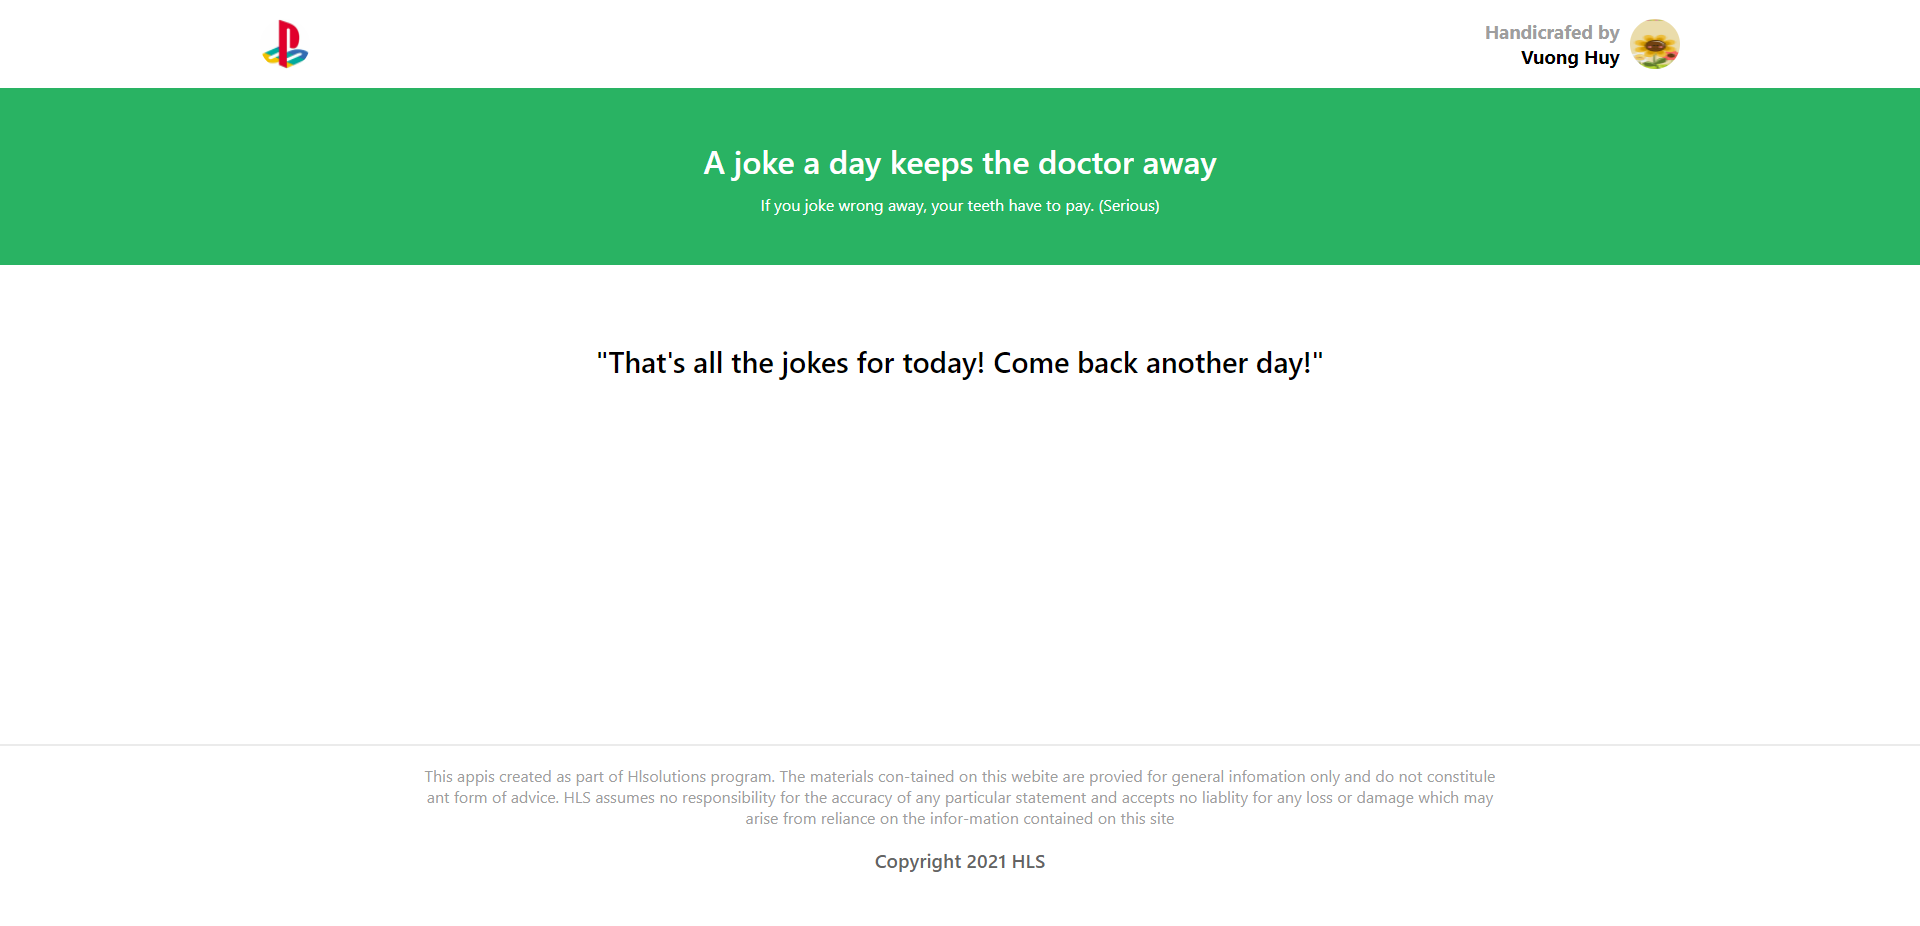
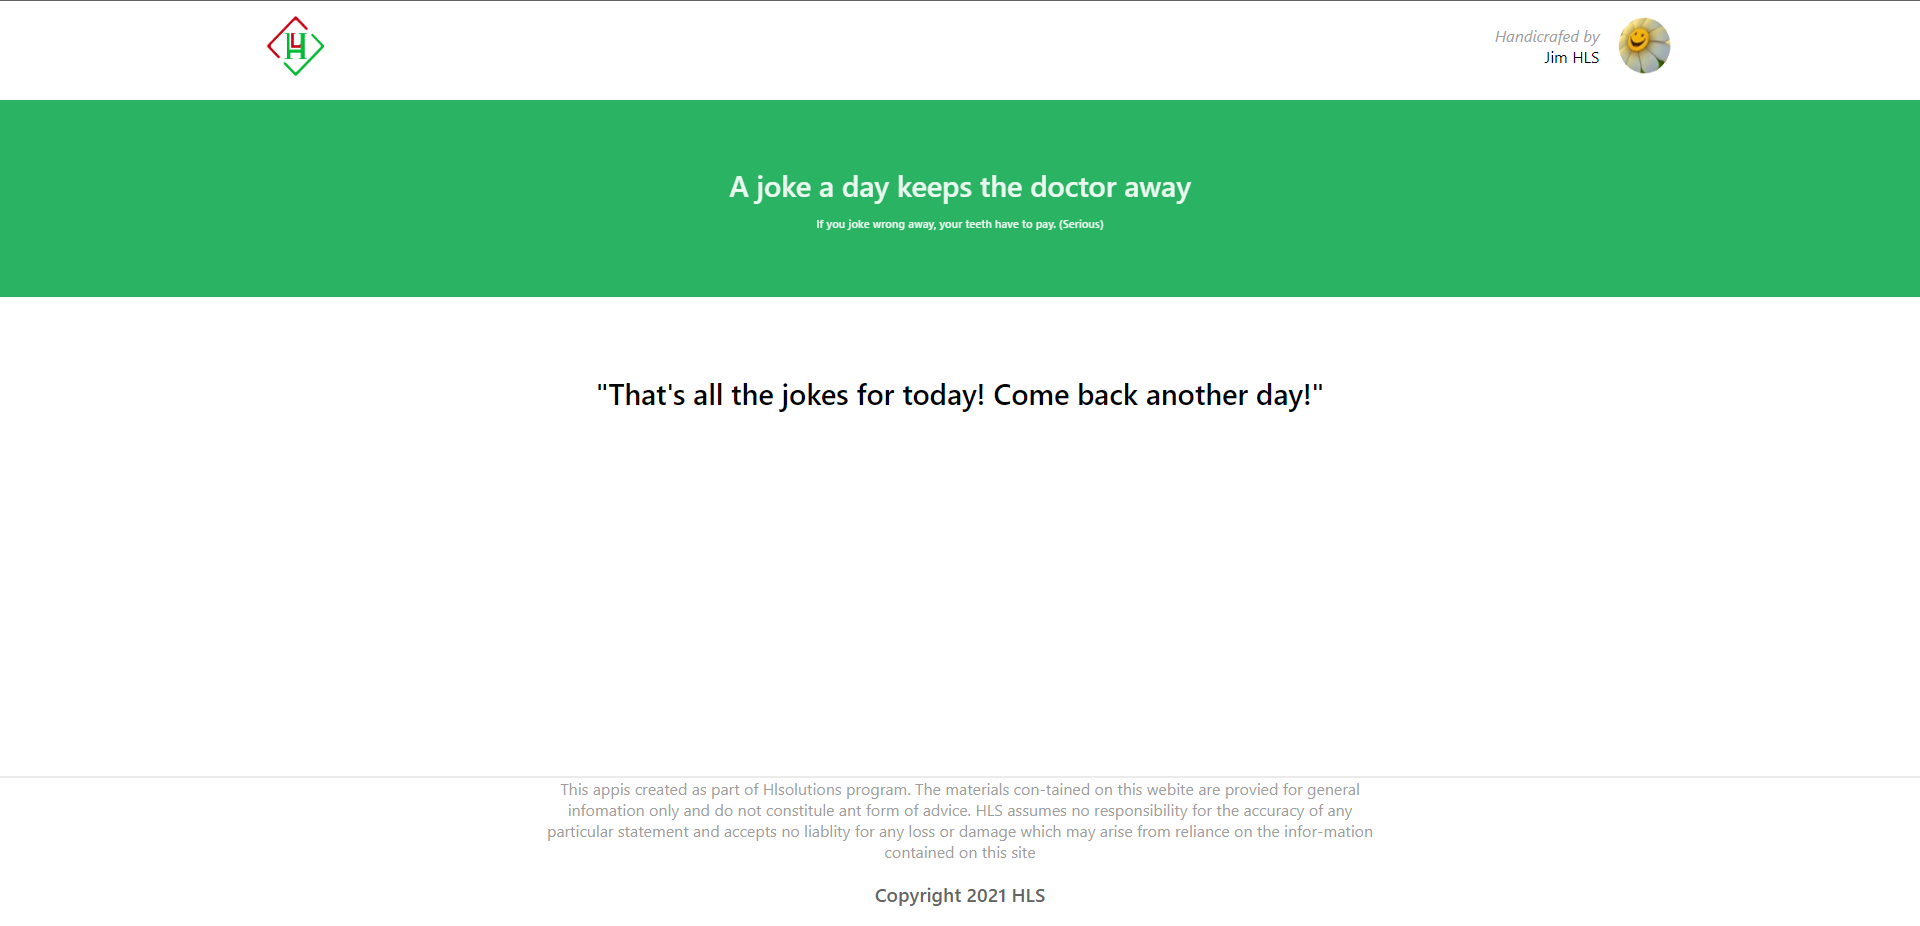
fix_logo

diff --git a/mobile/AppJokee/header.js b/mobile/AppJokee/header.js
@@ -6,23 +6,24 @@ export default function Header() {
       <View style={styles.left}>
         <Image
           style={styles.avatar}
-          source={require('../AppJokee/assets/lg.jpg')}
+          source={require('../AppJokee/assets/logo.png')}
         ></Image>
       </View>
       <View style={styles.right}>
         <View style={styles.content}>
           <Text style={styles.title}>Handicrafed by</Text>
-          <Text style={styles.name}> Vuong Huy</Text>
+          <Text style={styles.name}> Jim HLS</Text>
         </View>
         <Image
           style={styles.avatar}
-          source={require('../AppJokee/assets/avatar.jpg')}
+          source={require('../AppJokee/assets/avatar.png')}
         ></Image>
       </View>
     </View>
   )
 }
 
+const newLocal = 0.9
 const styles = StyleSheet.create({
   container: {
     justifyContent: 'space-between',
@@ -30,6 +31,7 @@ const styles = StyleSheet.create({
     backgroundColor: '#fff',
     height: 60,
     width: '100%',
+    paddingBottom: 10,
   },
   left: {
     width: '50%',
@@ -45,6 +47,7 @@ const styles = StyleSheet.create({
     marginTop: 5,
   },
   title: { color: '#9E9E9E' },
+  name: { opacity: 0.8 },
   avatar: {
     height: 50,
     width: 50,

diff --git a/mobile/AppJokee/main.js b/mobile/AppJokee/main.js
@@ -111,8 +111,8 @@ const styles = StyleSheet.create({
   },
   top: {
     paddingHorizontal: 20,
-    paddingVertical: 20,
-    width: '100%',
+    paddingVertical: 30,
+    width: '94%',
     justifyContent: 'center',
     flexDirection: 'column',
     alignContent: 'center',
@@ -124,9 +124,9 @@ const styles = StyleSheet.create({
     width: '80%',
     alignContent: 'center',
     alignItems: 'center',
-    marginTop: 30,
+    marginTop: 40,
   },
-  content: { textAlign: 'justify' },
+  content: { textAlign: 'justify', opacity: 0.6 },
   contentEnd: {
     textAlign: 'center',
     justifyContent: 'center',
@@ -138,7 +138,7 @@ const styles = StyleSheet.create({
   },
   btnLeft: {
     height: 'auto',
-    width: 120,
+    width: 140,
     backgroundColor: '#2C7EDB',
     justifyContent: 'center',
 
@@ -147,7 +147,7 @@ const styles = StyleSheet.create({
   },
   btnRight: {
     height: 'auto',
-    width: 120,
+    width: 140,
     backgroundColor: '#29B363',
     justifyContent: 'center',
 
@@ -155,7 +155,8 @@ const styles = StyleSheet.create({
     alignItems: 'center',
   },
   btnContent: {
-    marginVertical: 10,
-    color: '#fff',
+    marginVertical: 12,
+    color: '#ffff',
+    fontWeight: 500,
   },
 })

diff --git a/frontend/webjokee/src/component/Data/index.js b/frontend/webjokee/src/component/Data/index.js
@@ -2,7 +2,7 @@ export const Data = [
   {
     id: 1,
     content:
-      'A young boy enters a barber shop and the barber whispers to his customer. "This is the dumbest kid in the world. Watch while I prove it you." The barber puts a dollar bill in one hand and two quarters in the other, then calls the boy over and asks, "Which do you want, son?" The boy takes the quarters and leaves. "What did I tell you?" said the barber. "That kid never learns!" Later, when the customer leaves, he sees the same young boy coming out of the ice cream store. "Hey, son! May I ask you a question? Why did you take the quarters instead of the dollar bill?" The boy licked his cone and replied, "Because the day I take the dollar, the game is over!"',
+      'A child asked his father, "How were people born?" So his father said, "Adam and Eva made babies, then their babies becam adults anda made babies, and so on." The child then went to his mother, asked hẻ the same question and she told him, "We were mon-keys then we evolved to become like we are now". The child ran back to his father and said, "You lied to me!" His father replied, "No, your mom was talking about her side of the family.',
   },
   {
     id: 2,

diff --git a/mobile/AppJokee/Data.js b/mobile/AppJokee/Data.js
@@ -2,7 +2,7 @@ export const Data = [
   {
     id: 1,
     content:
-      'A young boy enters a barber shop and the barber whispers to his customer. "This is the dumbest kid in the world. Watch while I prove it you." The barber puts a dollar bill in one hand and two quarters in the other, then calls the boy over and asks, "Which do you want, son?" The boy takes the quarters and leaves. "What did I tell you?" said the barber. "That kid never learns!" Later, when the customer leaves, he sees the same young boy coming out of the ice cream store. "Hey, son! May I ask you a question? Why did you take the quarters instead of the dollar bill?" The boy licked his cone and replied, "Because the day I take the dollar, the game is over!"',
+      'A child asked his father, "How were people born?" So his father said, "Adam and Eva made babies, then their babies becam adults anda made babies, and so on." The child then went to his mother, asked hẻ the same question and she told him, "We were mon-keys then we evolved to become like we are now". The child ran back to his father and said, "You lied to me!" His father replied, "No, your mom was talking about her side of the family.',
   },
   {
     id: 2,

diff --git a/frontend/webjokee/src/component/header/style.module.scss b/frontend/webjokee/src/component/header/style.module.scss
@@ -7,13 +7,14 @@ background-color: #fff;
     width: auto;
     margin: 0.5% 12%;
     padding-Top: 10px;
-    padding-bottom: 10px;
+    padding-bottom: 20px;
   }
   .left{
     display: flex;
     width: 50%;
     height: 100%;
     padding-Left: 20px;
+    align-items: center;
  
   }
   .right {
@@ -31,14 +32,16 @@ background-color: #fff;
     flex-direction: column;
     justify-content: center;
   }
- .title { color: #9E9E9E }
+ .title { color: #9E9E9E ;font-style: italic; font-weight: 400;}
+ .name{font-weight: 400}
   .avatar {
-    height: 50px;
-    width: 50px;
+    height: 70px;
+    width: 70px;
     border-Radius: 50%;
     margin:0 10px;
    
   }
   h3{
+    font-size: 1rem;
     margin: 0 !important;
   }

diff --git a/frontend/webjokee/src/component/header/index.js b/frontend/webjokee/src/component/header/index.js
@@ -7,19 +7,19 @@ function Header() {
         <img
           alt=""
           className={styles.avatar}
-          src={process.env.PUBLIC_URL + '/lg.jpg'}
+          src={process.env.PUBLIC_URL + '/logo.png'}
         ></img>
       </div>
 
       <div className={styles.right}>
         <div className={styles.content}>
           <h3 className={styles.title}>Handicrafed by</h3>
-          <h3 className={styles.name}>Vuong Huy</h3>
+          <h3 className={styles.name}>Jim HLS</h3>
         </div>
         <img
           alt=""
           className={styles.avatar}
-          src={process.env.PUBLIC_URL + '/avatar.jpg'}
+          src={process.env.PUBLIC_URL + '/avatar.png'}
         ></img>
       </div>
     </div>

diff --git a/frontend/webjokee/src/component/main/style.module.scss b/frontend/webjokee/src/component/main/style.module.scss
@@ -7,15 +7,14 @@
     align-items: center;
     min-height: 200;
     background-color: #fff;
-    height: 225px;
+    height: 190px;
     padding: 4% 0;
     width: 100%;
   }
   .top {
-    // padding-inline-start: 20;
-    // padding-inline-end: 20;
+ 
     display: flex;
-    width: 60%;
+    width: 51%;
     justify-content: center;
     flex-direction: column;
     align-content: center;
@@ -34,8 +33,8 @@
   .content {
      text-align: justify;
      font-size: 1.2rem;
-     font-weight: 400;
-     color: #313030;
+     font-weight: 500;
+     color: #6C6C6C;
 }
   .contentEnd {
     display: flex;

diff --git a/frontend/webjokee/src/component/slider/style.module.scss b/frontend/webjokee/src/component/slider/style.module.scss
@@ -5,19 +5,21 @@
     align-items: center;
     align-content: center;
     background-color: #29B363;
-    height: 100px;
+    height: 120px;
     padding: 2% 0;
     width: 100%;
 }
 .titleBig{
-    font-size: 2rem;
+    font-size: 1.8rem;
     font-weight: 600;
     color: #fff;
     padding-bottom: 12px;
+    opacity: 0.9;
 }
 .title{
-    font-size: 1rem;
-    font-weight: 400;
+    font-size: 0.7rem;
+    font-weight: 500;
+    opacity: 0.9;
     color: #fff;
 }
 h1{

diff --git a/frontend/webjokee/src/component/footer/style.module.scss b/frontend/webjokee/src/component/footer/style.module.scss
@@ -8,16 +8,16 @@
     align-content: center;
     background-color: #fff;
     height: auto;
-  width: 100%;
+
  
-  padding: 1% 0;
+  // padding: 1% 0;
  
 }
 .title{
  text-align: center;
  color: #9e9e9e;
  font-size: 1rem;
- margin: 0 22% !important;
+ margin: 0 28% !important;
  font-weight: 400;
 }
 .content{
